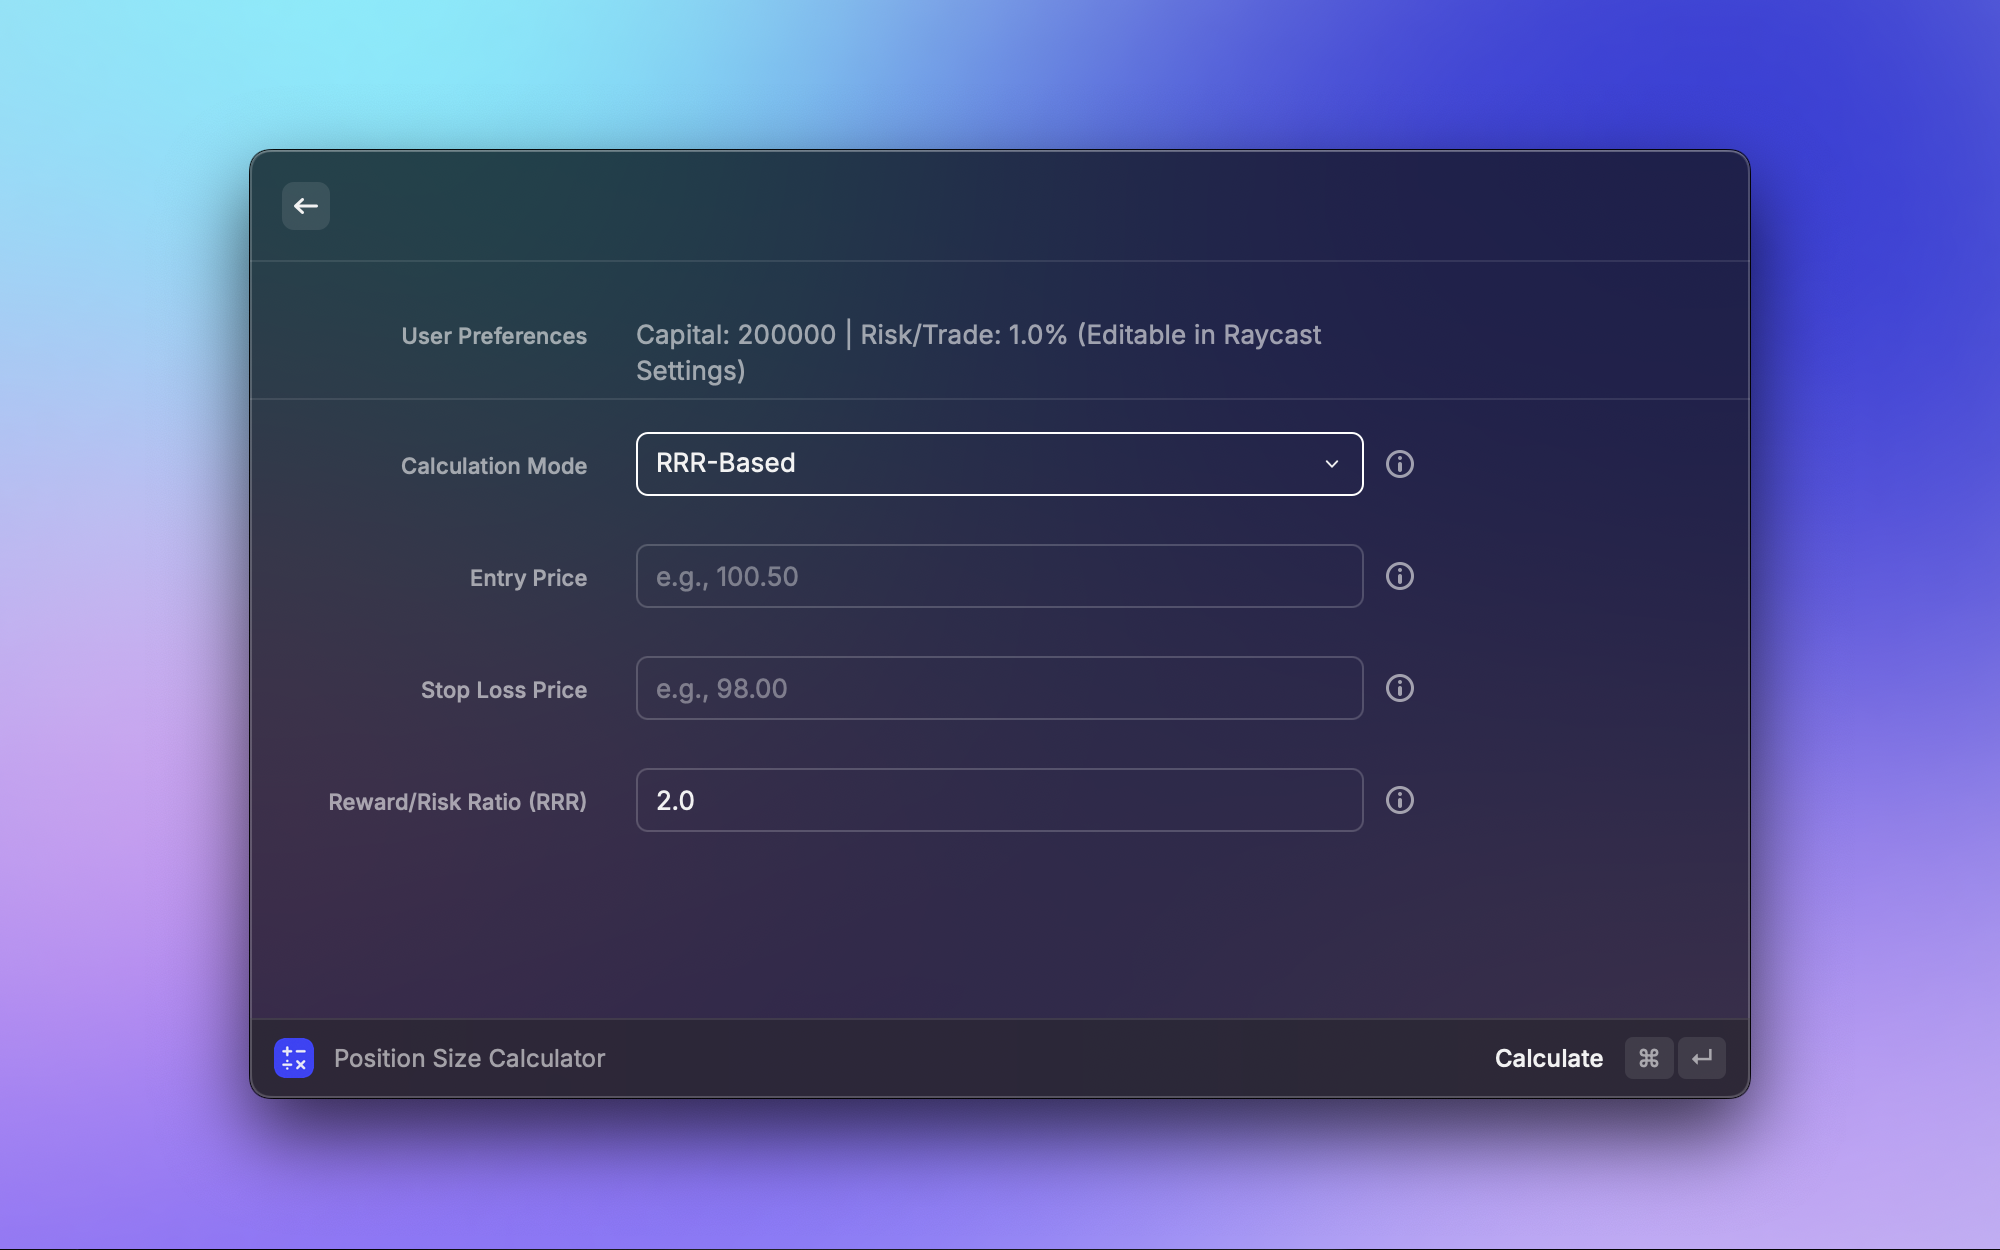
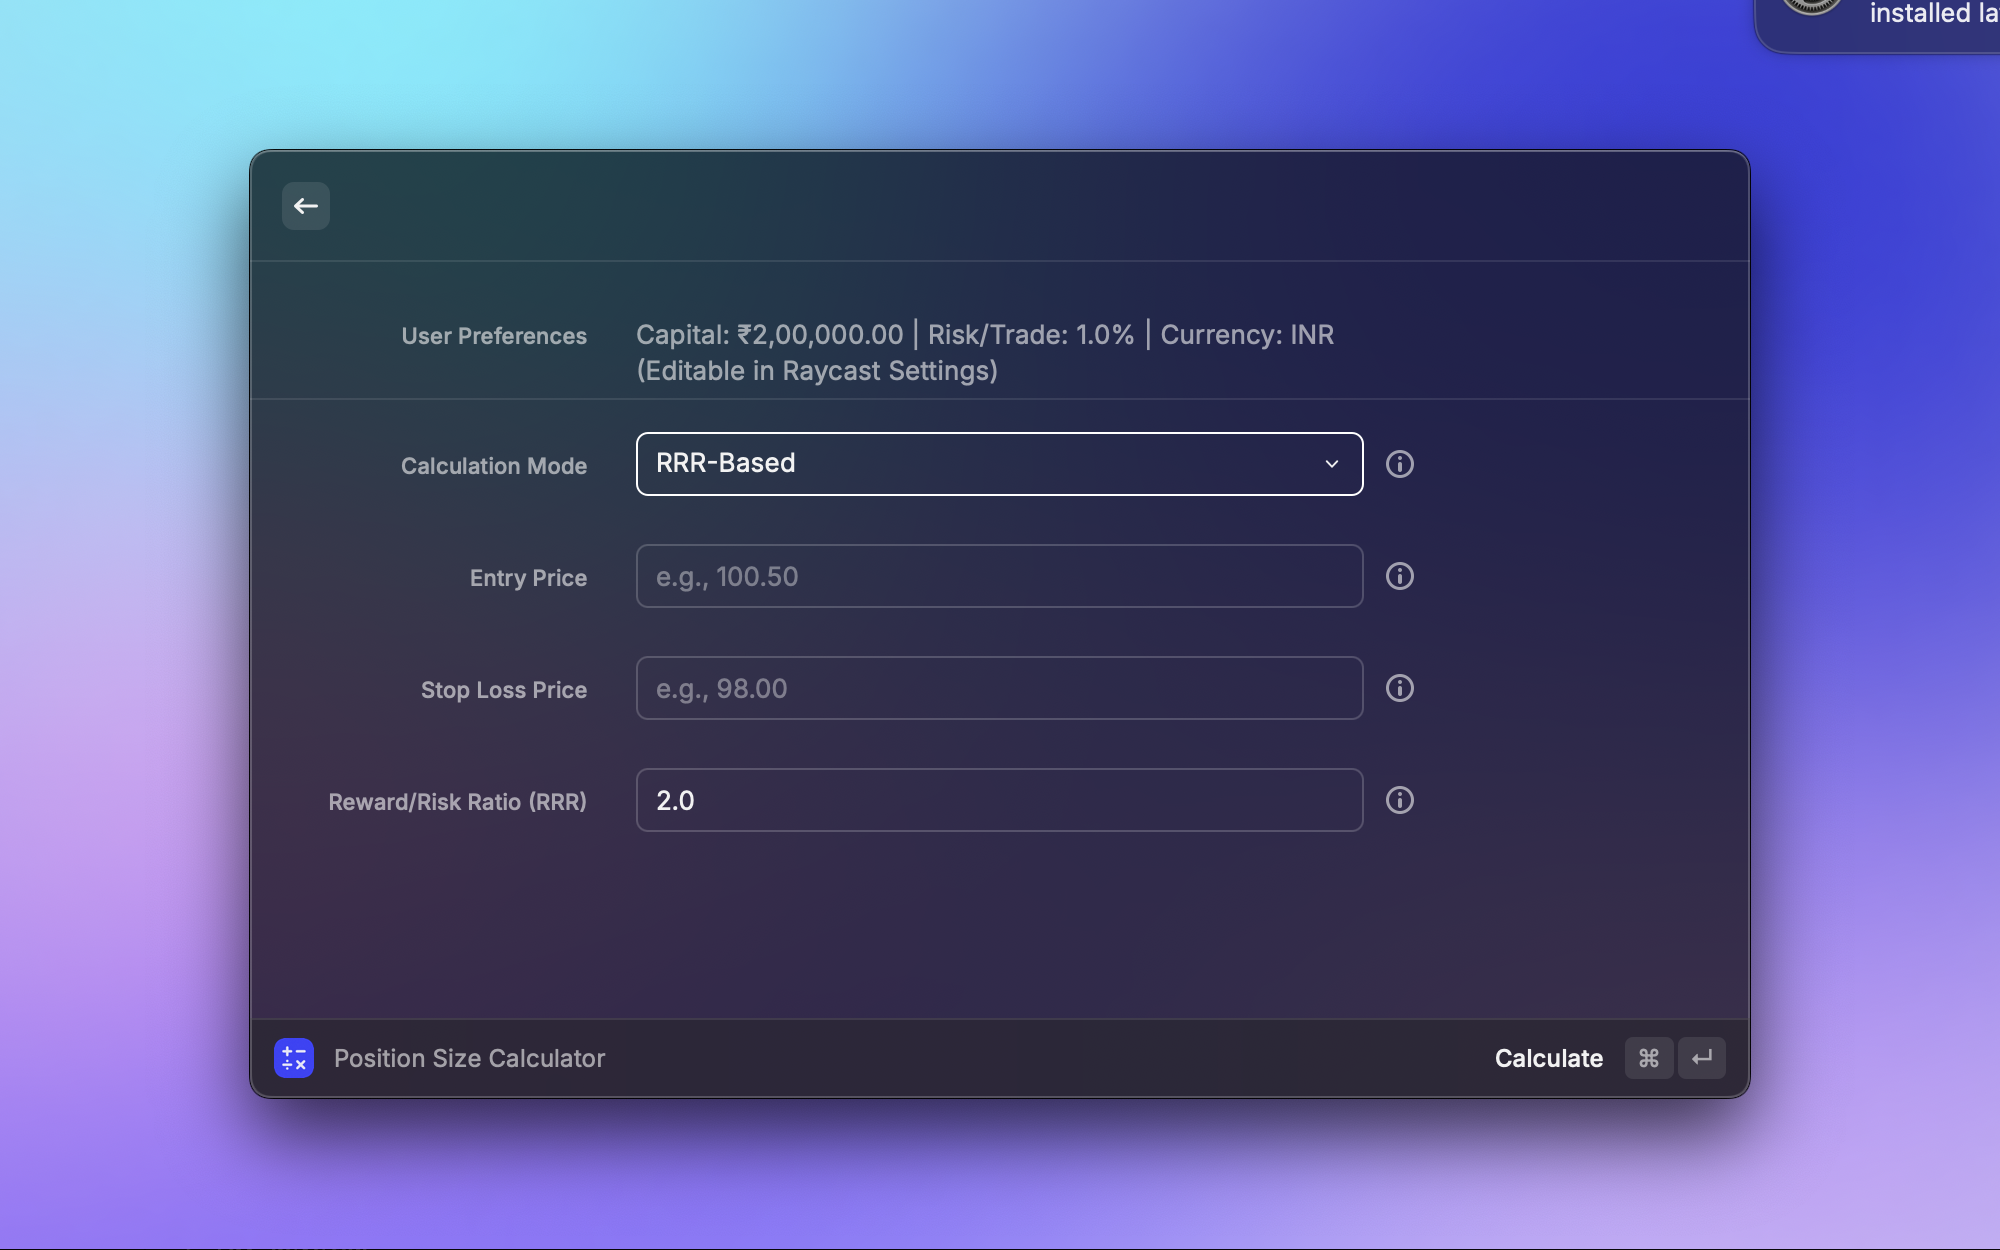
Implement user-configurable currency preference via dropdown

diff --git a/extensions/position-size-calculator/src/components/ResultsView.tsx b/extensions/position-size-calculator/src/components/ResultsView.tsx
@@ -5,15 +5,16 @@ import { formatCurrency, formatPercent } from "../utils";
 
 interface ResultsViewProps {
   results: CalculationResult;
+  currencyCode: string;
 }
 
-const ResultsView: React.FC<ResultsViewProps> = ({ results }) => {
+const ResultsView: React.FC<ResultsViewProps> = ({ results, currencyCode }) => {
   const items = [
     { title: "Mode", value: results.mode },
-    { title: "Capital", value: formatCurrency(results.capital) },
+    { title: "Capital", value: formatCurrency(results.capital, currencyCode) },
     {
       title: "Risk Amount",
-      value: formatCurrency(results.riskAmount),
+      value: formatCurrency(results.riskAmount, currencyCode),
       copyValue: results.riskAmount.toString(),
     },
     {
@@ -43,12 +44,12 @@ const ResultsView: React.FC<ResultsViewProps> = ({ results }) => {
     },
     {
       title: "Investment (Exposure)",
-      value: `${formatCurrency(results.investmentAmount)} (${formatPercent(results.exposurePercent)})`,
+      value: `${formatCurrency(results.investmentAmount, currencyCode)} (${formatPercent(results.exposurePercent)})`,
       copyValue: results.investmentAmount.toString(),
     },
     {
       title: "Potential Reward",
-      value: formatCurrency(results.reward),
+      value: formatCurrency(results.reward, currencyCode),
       copyValue: results.reward.toString(),
     },
     {

diff --git a/extensions/position-size-calculator/src/index.tsx b/extensions/position-size-calculator/src/index.tsx
@@ -2,7 +2,7 @@
 import React, { useState } from "react";
 import { Form, ActionPanel, Action, getPreferenceValues, showToast, Toast, useNavigation } from "@raycast/api";
 import { CalculationMode, Preferences, CalculationInputs, FormValues } from "./types";
-import { calculatePositionDetails } from "./utils";
+import { calculatePositionDetails, formatCurrency } from "./utils";
 import ResultsView from "./components/ResultsView";
 import { showFailureToast } from "@raycast/utils";
 
@@ -151,7 +151,7 @@ export default function Command() {
       showFailureToast(result.error, { title: "Calculation Error" });
     } else {
       showToast(Toast.Style.Success, "Calculation Complete");
-      push(<ResultsView results={result} />);
+      push(<ResultsView results={result} currencyCode={preferences.currencyCode} />);
     }
   };
 
@@ -166,7 +166,7 @@ export default function Command() {
     >
       <Form.Description
         title="User Preferences"
-        text={`Capital: ${preferences.capital} | Risk/Trade: ${preferences.riskPercent}% (Editable in Raycast Settings)`}
+        text={`Capital: ${formatCurrency(parseFloat(preferences.capital), preferences.currencyCode)} | Risk/Trade: ${preferences.riskPercent}% | Currency: ${preferences.currencyCode.toUpperCase()} (Editable in Raycast Settings)`}
       />
       <Form.Separator />
 

diff --git a/extensions/position-size-calculator/src/utils.ts b/extensions/position-size-calculator/src/utils.ts
@@ -146,15 +146,19 @@ export function calculatePositionDetails(inputs: CalculationInputs): Calculation
 }
 
 // Helper to format currency
-export const formatCurrency = (value: number): string => {
+export const formatCurrency = (value: number, currencyCode: string): string => {
   if (isNaN(value)) return "N/A";
-  return value.toLocaleString("en-IN", {
-    // Example: Indian Rupee format
-    style: "currency",
-    currency: "INR",
-    minimumFractionDigits: 2,
-    maximumFractionDigits: 2,
-  });
+  try {
+    return value.toLocaleString(undefined, { // Use undefined locale to let it pick system default or best match
+      style: "currency",
+      currency: currencyCode.toUpperCase(), // Ensure currency code is uppercase
+      minimumFractionDigits: 2,
+      maximumFractionDigits: 2,
+    });
+  } catch (error) {
+    console.warn(`Failed to format currency for code ${currencyCode}:`, error);
+    return `${value.toFixed(2)} ${currencyCode.toUpperCase()}`; // Fallback
+  }
 };
 
 // Helper to format percentages

diff --git a/extensions/position-size-calculator/src/types.ts b/extensions/position-size-calculator/src/types.ts
@@ -1,6 +1,7 @@
 export interface Preferences {
   capital: string; // Preferences are initially strings
   riskPercent: string;
+  currencyCode: string;
 }
 
 export type CalculationMode = "Fixed Price" | "RRR-Based" | "% SL/Target" | "Fixed Risk";

diff --git a/extensions/position-size-calculator/README.md b/extensions/position-size-calculator/README.md
@@ -7,7 +7,7 @@ The Position Size Calculator is a Raycast extension designed to help traders qui
 ## Features
 
 - **Multiple Calculation Modes:** Choose the method that best suits your trading style.
-- **Preference-Based Defaults:** Set your default trading capital and risk percentage in Raycast preferences for faster calculations.
+- **Preference-Based Defaults:** Set your default trading capital, risk percentage and currency in Raycast preferences for faster calculations.
 - **Clear Results:** Get a detailed breakdown of your trade parameters, including quantity, risk amount, potential reward, and more.
 - **Easy Input:** User-friendly form with inline guidance for each input field.
 - **Copy to Clipboard:** Quickly copy individual results or all calculated details.
@@ -44,6 +44,7 @@ Before your first use, or anytime you want to change your defaults, you can set 
 3.  Configure the following:
     - **Trading Capital:** Your total trading capital (e.g., `200000`).
     - **Risk per Trade (%):** The percentage of your capital you are willing to risk on a single trade (e.g., `1.0` for 1%).
+    - **Currency:** Select your preferred currency from the dropdown list (e.g., `🇺🇸 $ USD - US Dollar`, `🇮🇳 ₹ INR - Indian Rupee`). The extension will use this for displaying all monetary values.
 
 These preferences will be used as the base for calculations unless overridden by specific modes (like "Fixed Risk").
 
